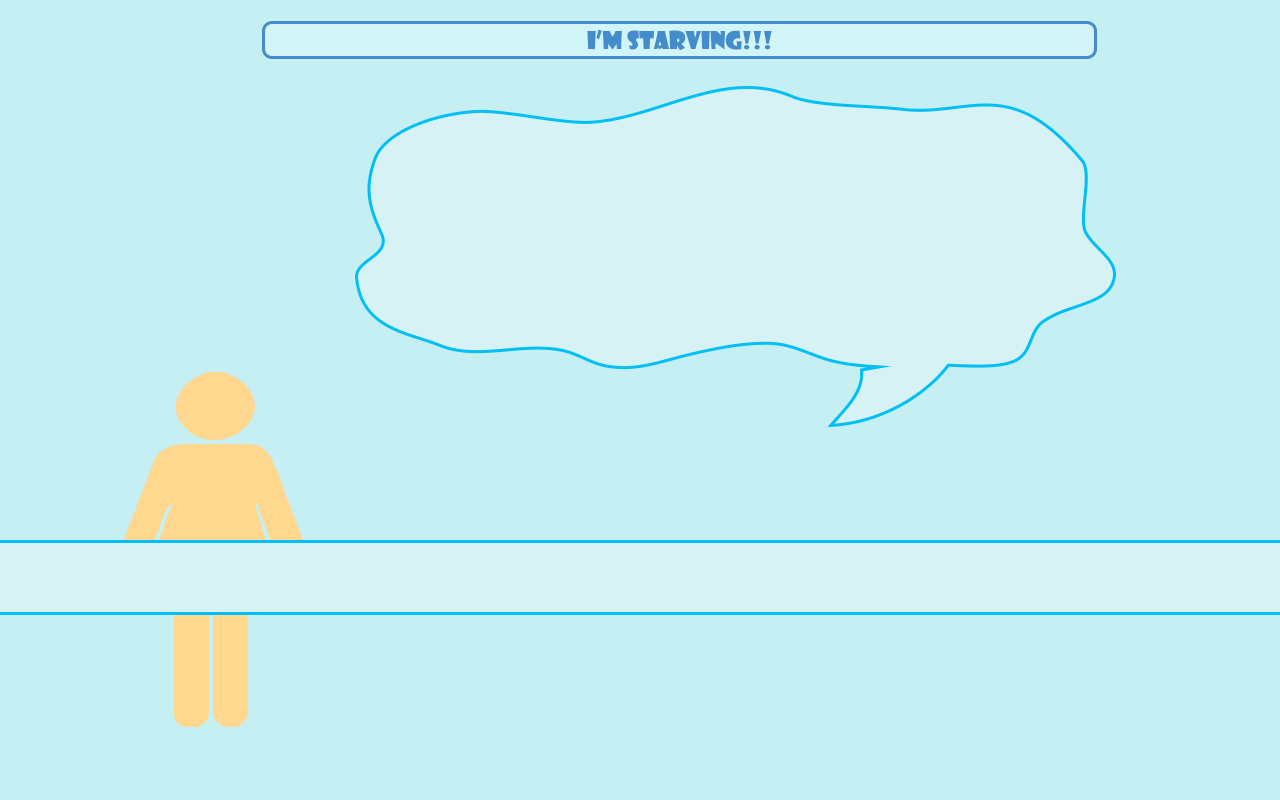
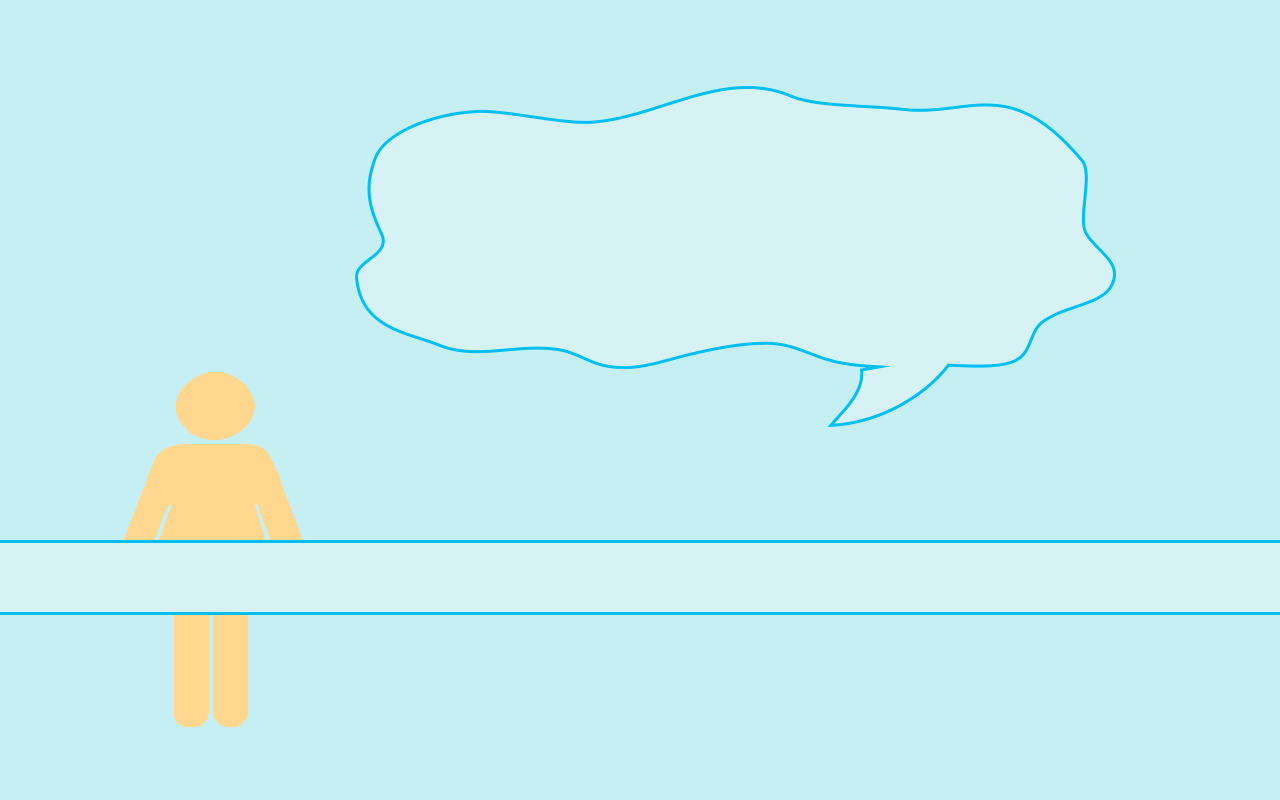
Completed first completed version of the game

Changed region(s): [[0.2188, 0.0, 0.8438, 0.0938]]

diff --git a/app/src/main/java/com/charlesli/eattillyoudie/GameScreen.java b/app/src/main/java/com/charlesli/eattillyoudie/GameScreen.java
@@ -31,7 +31,8 @@ public class GameScreen extends Screen {
 
     private int score = 0;
     private int numberOfLives = 3;
-    private int starvingTime = 100;
+    private float starvingTimeMax = 100;
+    private float starvingTimeCurrent = 100;
     private float foodTime = 0;
     private float foodTimeCutOff = 0;
 
@@ -70,12 +71,16 @@ public class GameScreen extends Screen {
     private void updateRunning(List<TouchEvent> touchEvents, float deltaTime) {
         Graphics g = game.getGraphics();
         int len = touchEvents.size();
+        starvingTimeCurrent -= deltaTime;
+        if (starvingTimeCurrent <= 0) {
+            game.setScreen(new MainMenuScreen(game));
+        }
 
         foodTime += deltaTime;
         if (foodTime > foodTimeCutOff) {
-            addFoodToList(foodList, 11, 1200, 540, 50);
+            addFoodToList(foodList, 11, 1200, 540, 80);
             foodTime = 0;
-            foodTimeCutOff = 3;
+            foodTimeCutOff = 2;
         }
 
         // Update Food items location
@@ -187,6 +192,8 @@ public class GameScreen extends Screen {
     public void present(float deltaTime) {
         Graphics g = game.getGraphics();
         g.drawPixmap(Assets.gameScreen, 0, 0);
+        g.drawPixmap(Assets.timeBar, 260, 17);
+        g.drawPixmap(Assets.timeBarFull, 260, 17, 0, 0, (int) (starvingTimeCurrent/starvingTimeMax * Assets.timeBarFull.getWidth()), Assets.timeBarFull.getHeight());
         drawWorld();
 
         drawText(g, score + "", 1150,  25);

diff --git a/app/src/main/java/com/charlesli/eattillyoudie/LoadingScreen.java b/app/src/main/java/com/charlesli/eattillyoudie/LoadingScreen.java
@@ -46,6 +46,8 @@ public class LoadingScreen extends Screen {
         Assets.playButton = g.newPixmap("playButton.png", Graphics.PixmapFormat.ARGB4444);
         Assets.steak = g.newPixmap("steak.png", Graphics.PixmapFormat.ARGB4444);
         Assets.sushi = g.newPixmap("sushi.png", Graphics.PixmapFormat.ARGB4444);
+        Assets.timeBar = g.newPixmap("timeBar.png", Graphics.PixmapFormat.ARGB4444);
+        Assets.timeBarFull = g.newPixmap("timeBarFull.png", Graphics.PixmapFormat.ARGB4444);
         Assets.watermelon = g.newPixmap("watermelon.png", Graphics.PixmapFormat.ARGB4444);
         game.setScreen(new MainMenuScreen(game));
     }

diff --git a/app/src/main/java/com/charlesli/eattillyoudie/Assets.java b/app/src/main/java/com/charlesli/eattillyoudie/Assets.java
@@ -19,9 +19,8 @@ public class Assets {
     public static Pixmap nextButton;
     public static Pixmap cancelButton;
     public static Pixmap backButton;
-    public static Pixmap hearts;
     public static Pixmap timeBar;
-    public static Pixmap wishList;
+    public static Pixmap timeBarFull;
     public static Pixmap character;
     public static Pixmap conveyorBelt;
     public static Pixmap logo;
